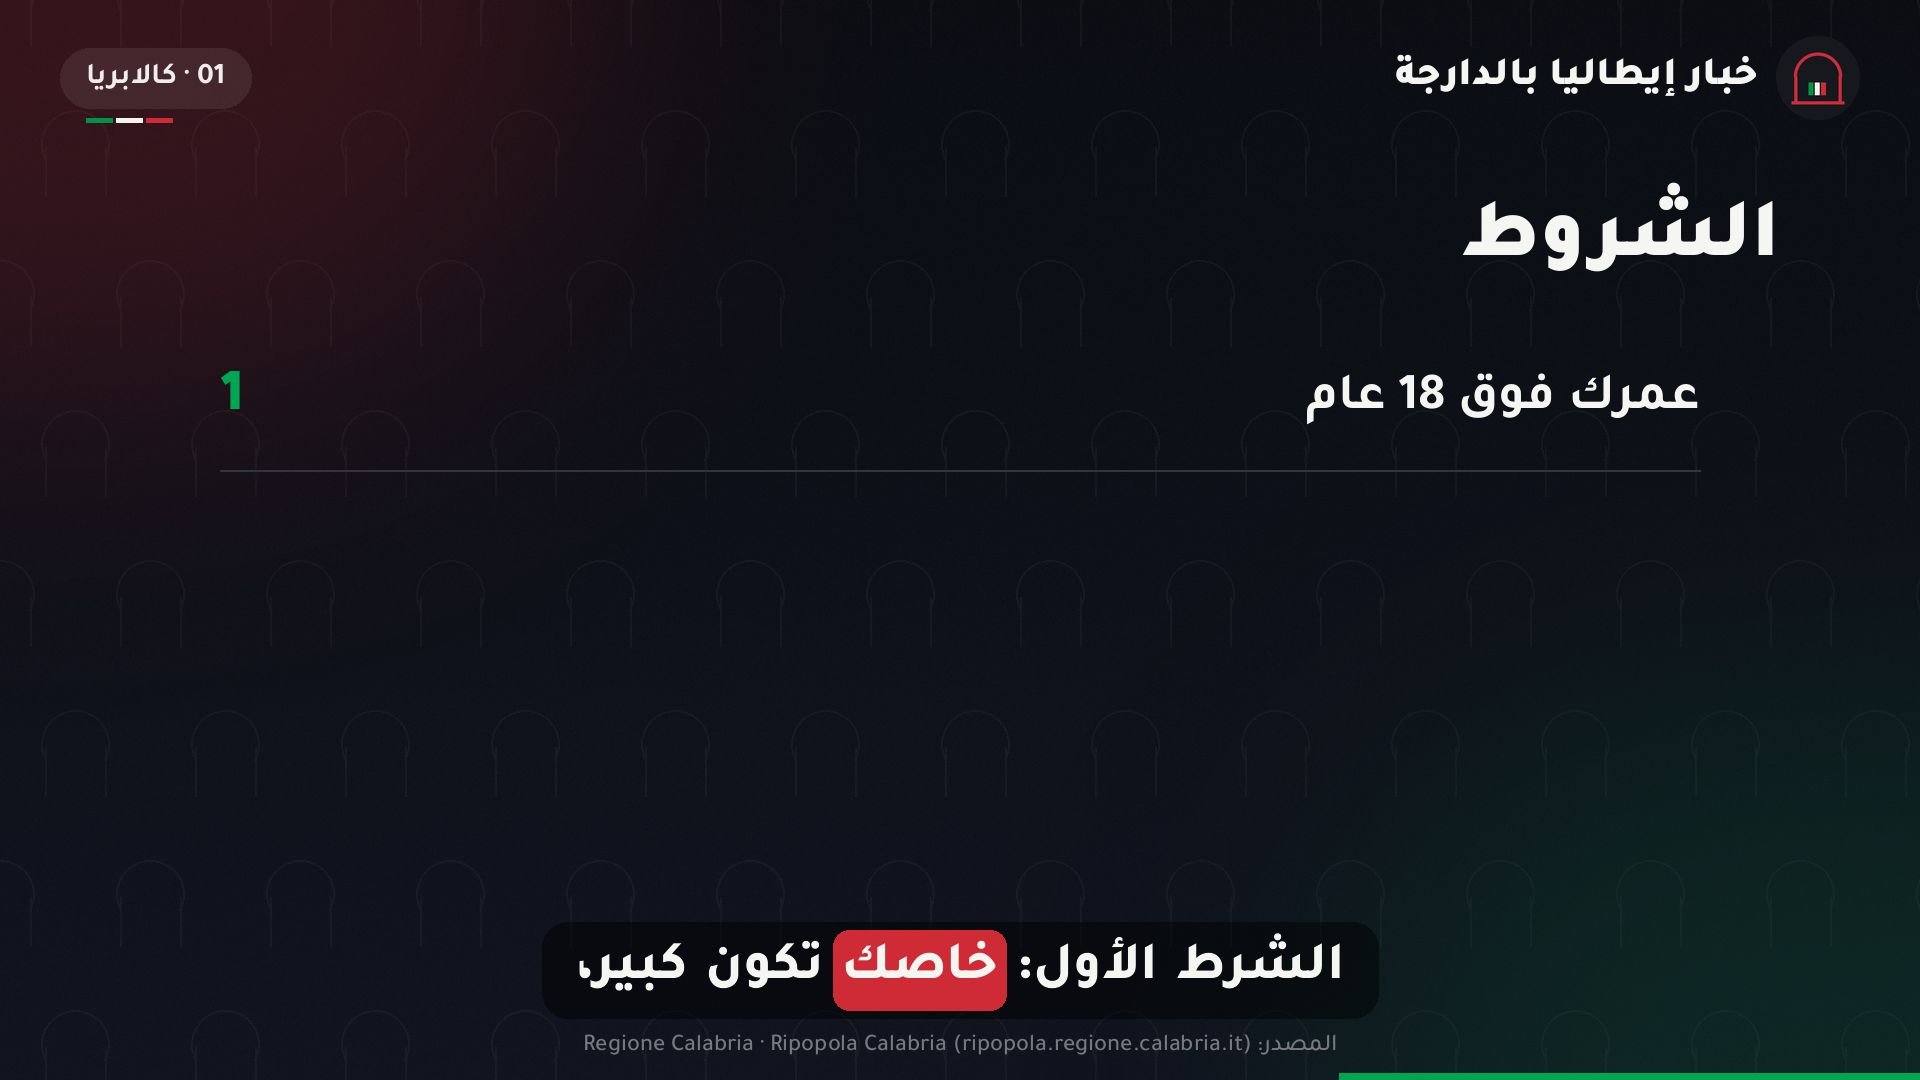
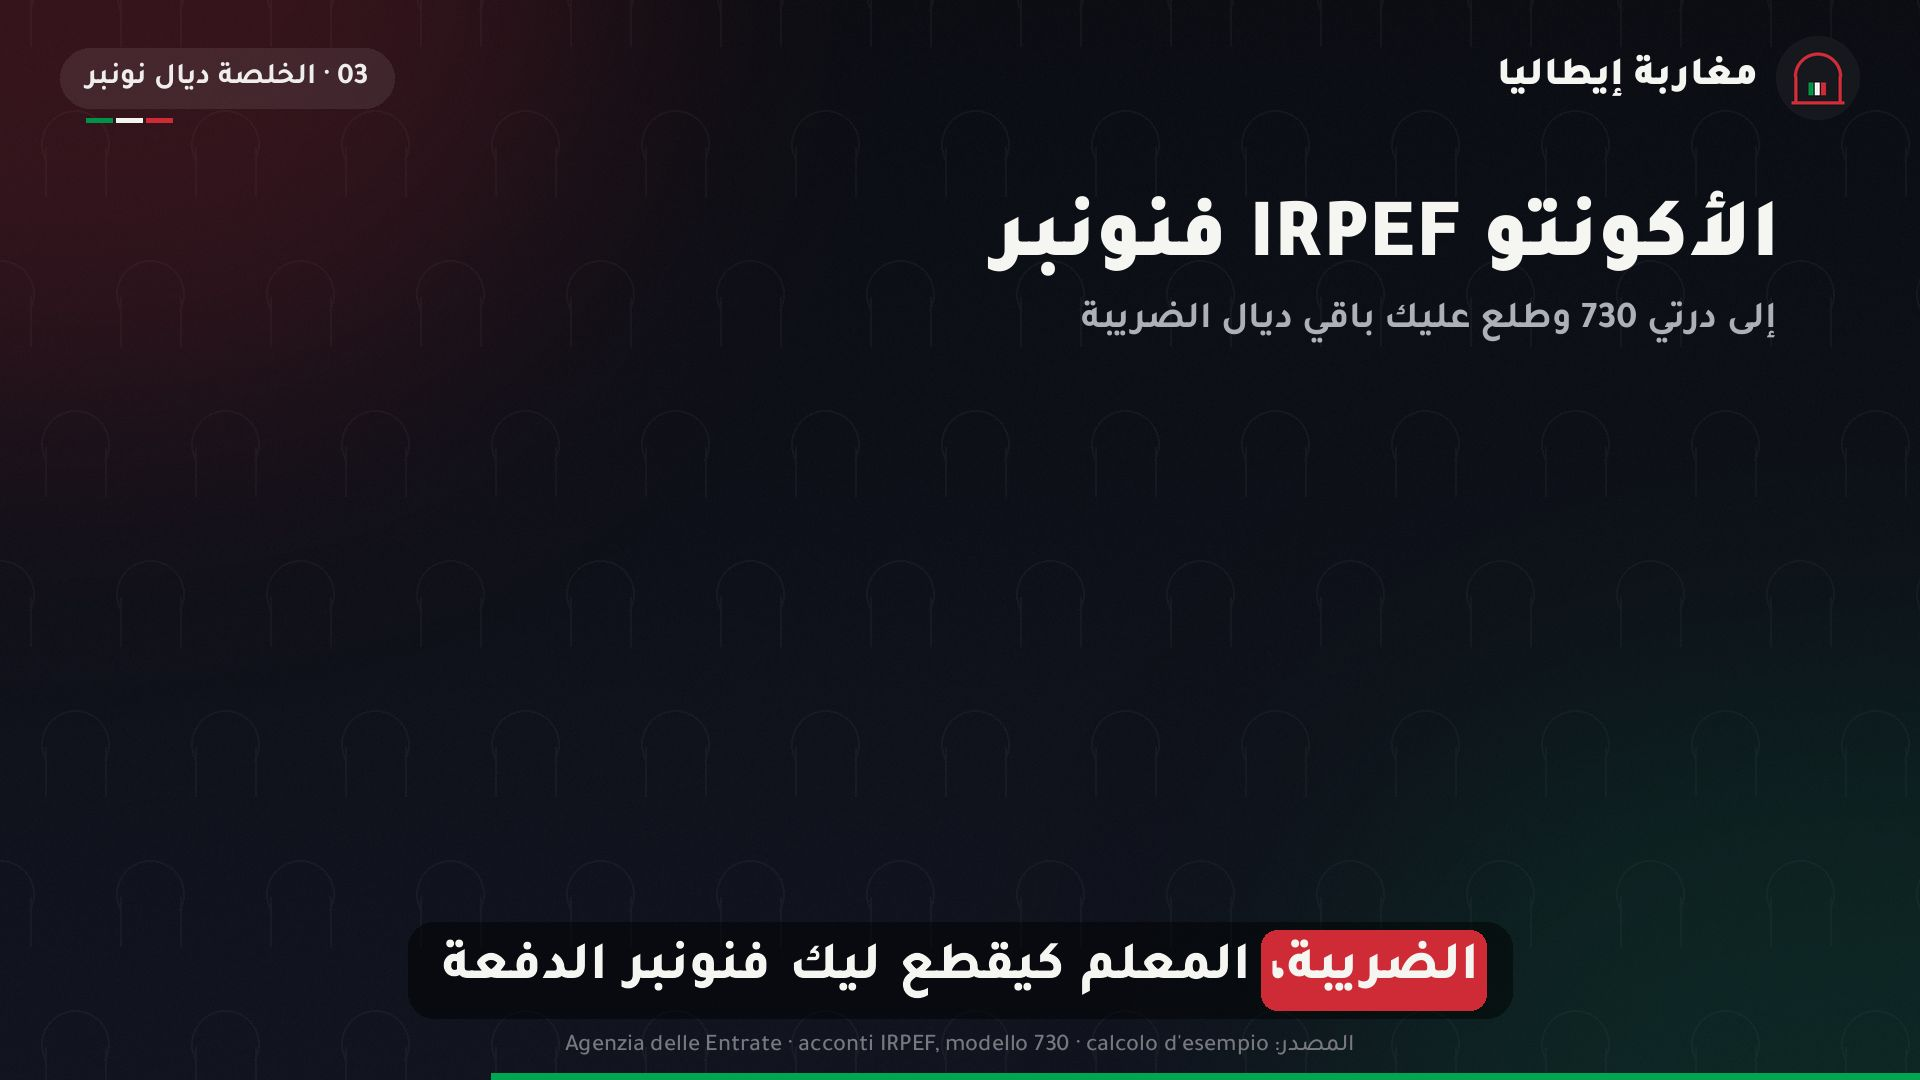
Video lungo 10/11: episodio
Claude-Session: https://claude.ai/code/session_01SSL6h1NHVtLZPEJajBhB95

diff --git a/episodes/lungo-2026-11-10.py b/episodes/lungo-2026-11-10.py
@@ -1,0 +1,67 @@
+import json, os
+ROOT = os.path.dirname(os.path.dirname(os.path.abspath(__file__)))
+JOB = json.load(open(os.path.join(ROOT, "tts/jobs/lungo-2026-11-10.json"), encoding="utf-8"))
+AUDIO_DIR = os.path.join(ROOT, "tts/audio/lungo-2026-11-10")
+BRAND = "مغاربة إيطاليا"
+GREY = (175, 175, 182); GOLD = (236, 196, 96); RED = (230, 90, 90); WHITE = (245, 245, 242); GREEN = (0, 190, 95)
+T = JOB["blocks"]
+
+S_FLU = "Ministero del Lavoro · circolare 7185 del 1/10/2026 · DPCM flussi 2026-2028"
+S_AUU = "INPS · circolare n. 7 del 30/01/2026 (assegno unico 2026)"
+S_ACC = "Agenzia delle Entrate · acconti IRPEF, modello 730 · calcolo d'esempio"
+
+BLOCKS = [
+ dict(audio="A.wav", text=T["A"], chapter="01 · الفلوكسي 2027", src=S_FLU, items=[
+   dict(k="head", text="تلت خبار اليوم", at=0.2, until="الخبر الأول"),
+   dict(k="rows", at="اليوم عندنا", until="الخبر الأول", y=400, gap=130, rows=[
+     ("الفلوكسي 2027: الخدمة فإيطاليا", "01", "الفلوكسي"),
+     ("لاسينيو أونيكو ديال الدراري", "02", "لاسينيو"),
+     ("علاش الخلصة ديال نونبر ناقصة؟", "03", "وعلاش"),
+   ]),
+   dict(k="chapter", num="01", title="الفلوكسي 2027", at="الخبر الأول", until="الدولة الإيطالية"),
+   dict(k="big", text="165.850", at="الدولة الإيطالية", until="ولكن رد البال", y=500, size=240, sub="خدام من برا أوروبا مسموح ليهم يدخلو ف2027"),
+   dict(k="warn", text="الطلب كيديرو المعلم (datore di lavoro)، ماشي الخدام", at="ولكن رد البال", until="دابا كاينة", y=520),
+   dict(k="head", text="الكالاندريي", at="دابا كاينة", until="نصيحة", sub="التحضير ديال الطلبات: من 23 أكتوبر حتى 7 دجنبر 2026"),
+   dict(k="rows", at="ربعة ديال", until="نصيحة", y=430, gap=118, size=48, rows=[
+     ("الفلاحة الموسمية", "12/01/2027", "تناش يناير"),
+     ("السياحة الموسمية", "09/02/2027", "تسعة فبراير"),
+     ("الخدمة غير الموسمية", "16/02/2027", "ستاش فبراير"),
+     ("الخدمة فالديور والعناية بالعائلات", "18/02/2027", "وتمنطاش فبراير"),
+   ]),
+   dict(k="big", text="7 دجنبر", at="نصيحة", y=500, size=200, color=GOLD, sub="المعلم خاصو يحضر الطلب قبل هاد التاريخ"),
+ ]),
+ dict(audio="B.wav", text=T["B"], chapter="02 · لاسينيو أونيكو", src=S_AUU, items=[
+   dict(k="chapter", num="02", title="لاسينيو أونيكو", at=0.1, until="ف ألفين"),
+   dict(k="head", text="شحال فالشهر لكل ولد؟", at="ف ألفين", until="مثلا", sub="ولد تحت 18 عام · 2026"),
+   dict(k="rows", at="ف ألفين", until="مثلا", y=420, gap=140, size=54, rows=[
+     ("الماكسيموم · ISEE حتى 17.468,51 €", "203,80 €", "الماكسيموم"),
+     ("الميني · بلا ISEE ولا ISEE عالي", "58,30 €", "وإلى ما درتيش", WHITE),
+   ]),
+   dict(k="big", text="≈ 407 €", at="مثلا", until="نصيحة", y=500, size=230, color=GREEN, sub="جوج ولاد · ISEE تحت 17.468 € · بلا الزيادات (203,80 × 2)"),
+   dict(k="warn", text="من يناير دير ISEE جديد: بلا بيه، من مارس كتشد غير الميني", at="نصيحة", y=520),
+ ]),
+ dict(audio="C.wav", text=T["C"], chapter="03 · الخلصة ديال نونبر", src=S_ACC, items=[
+   dict(k="chapter", num="03", title="الخلصة ديال نونبر", at=0.1, until="إلى درتي"),
+   dict(k="head", text="الأكونتو IRPEF فنونبر", at="إلى درتي", until="مثلا", sub="إلى درتي 730 وطلع عليك باقي ديال الضريبة"),
+   dict(k="big", text="40% + 60%", at="إلى كان فوق", until="مثلا", y=520, size=200, color=GOLD, sub="إلى كان الأكونتو فوق 257,52 €: الصيف + نونبر"),
+   dict(k="rows", at="مثلا", until="ملخص اليوم", y=380, gap=130, size=54, rows=[
+     ("أكونتو ديال 1.000 €", "مثال", "مثلا", WHITE),
+     ("الصيف", "400 € (40%)", "ربع مية"),
+     ("نونبر", "600 € (60%)", "وست مية"),
+   ]),
+   dict(k="warn", text="بارتيتا إيفا ولا بلا معلم: F24 قبل 30 نونبر 2026", at="وإلى كنتي", until="ملخص اليوم", y=800),
+   dict(k="head", text="ملخص اليوم", at="ملخص اليوم", until="ونتا، شنو"),
+   dict(k="rows", at="ملخص اليوم", until="ونتا، شنو", y=400, gap=130, rows=[
+     ("الفلوكسي: المعلم يحضر الطلب", "7/12", "الفلوكسي، المعلم"),
+     ("لاسينيو: دير ISEE جديد", "يناير", "لاسينيو أونيكو، دير"),
+     ("الخلصة ديال نونبر: شوف الأكونتو", "730", "والخلصة ديال نونبر، شوف"),
+   ]),
+   dict(k="cta", at="ونتا، شنو", text="ابوني فالقناة", sub="كل نهار خبر مفيد للمغاربة فإيطاليا"),
+ ]),
+]
+
+THUMB = dict(
+  title=[("الفلوكسي 2027", (236, 196, 96)), "+ لاسينيو أونيكو", "+ الخلصة ديال نونبر"],
+  num="165.850", numsub="خدام يقدرو يدخلو ف2027",
+  bottom="مغاربة إيطاليا · خبار مفيدة بالدارجة",
+)
